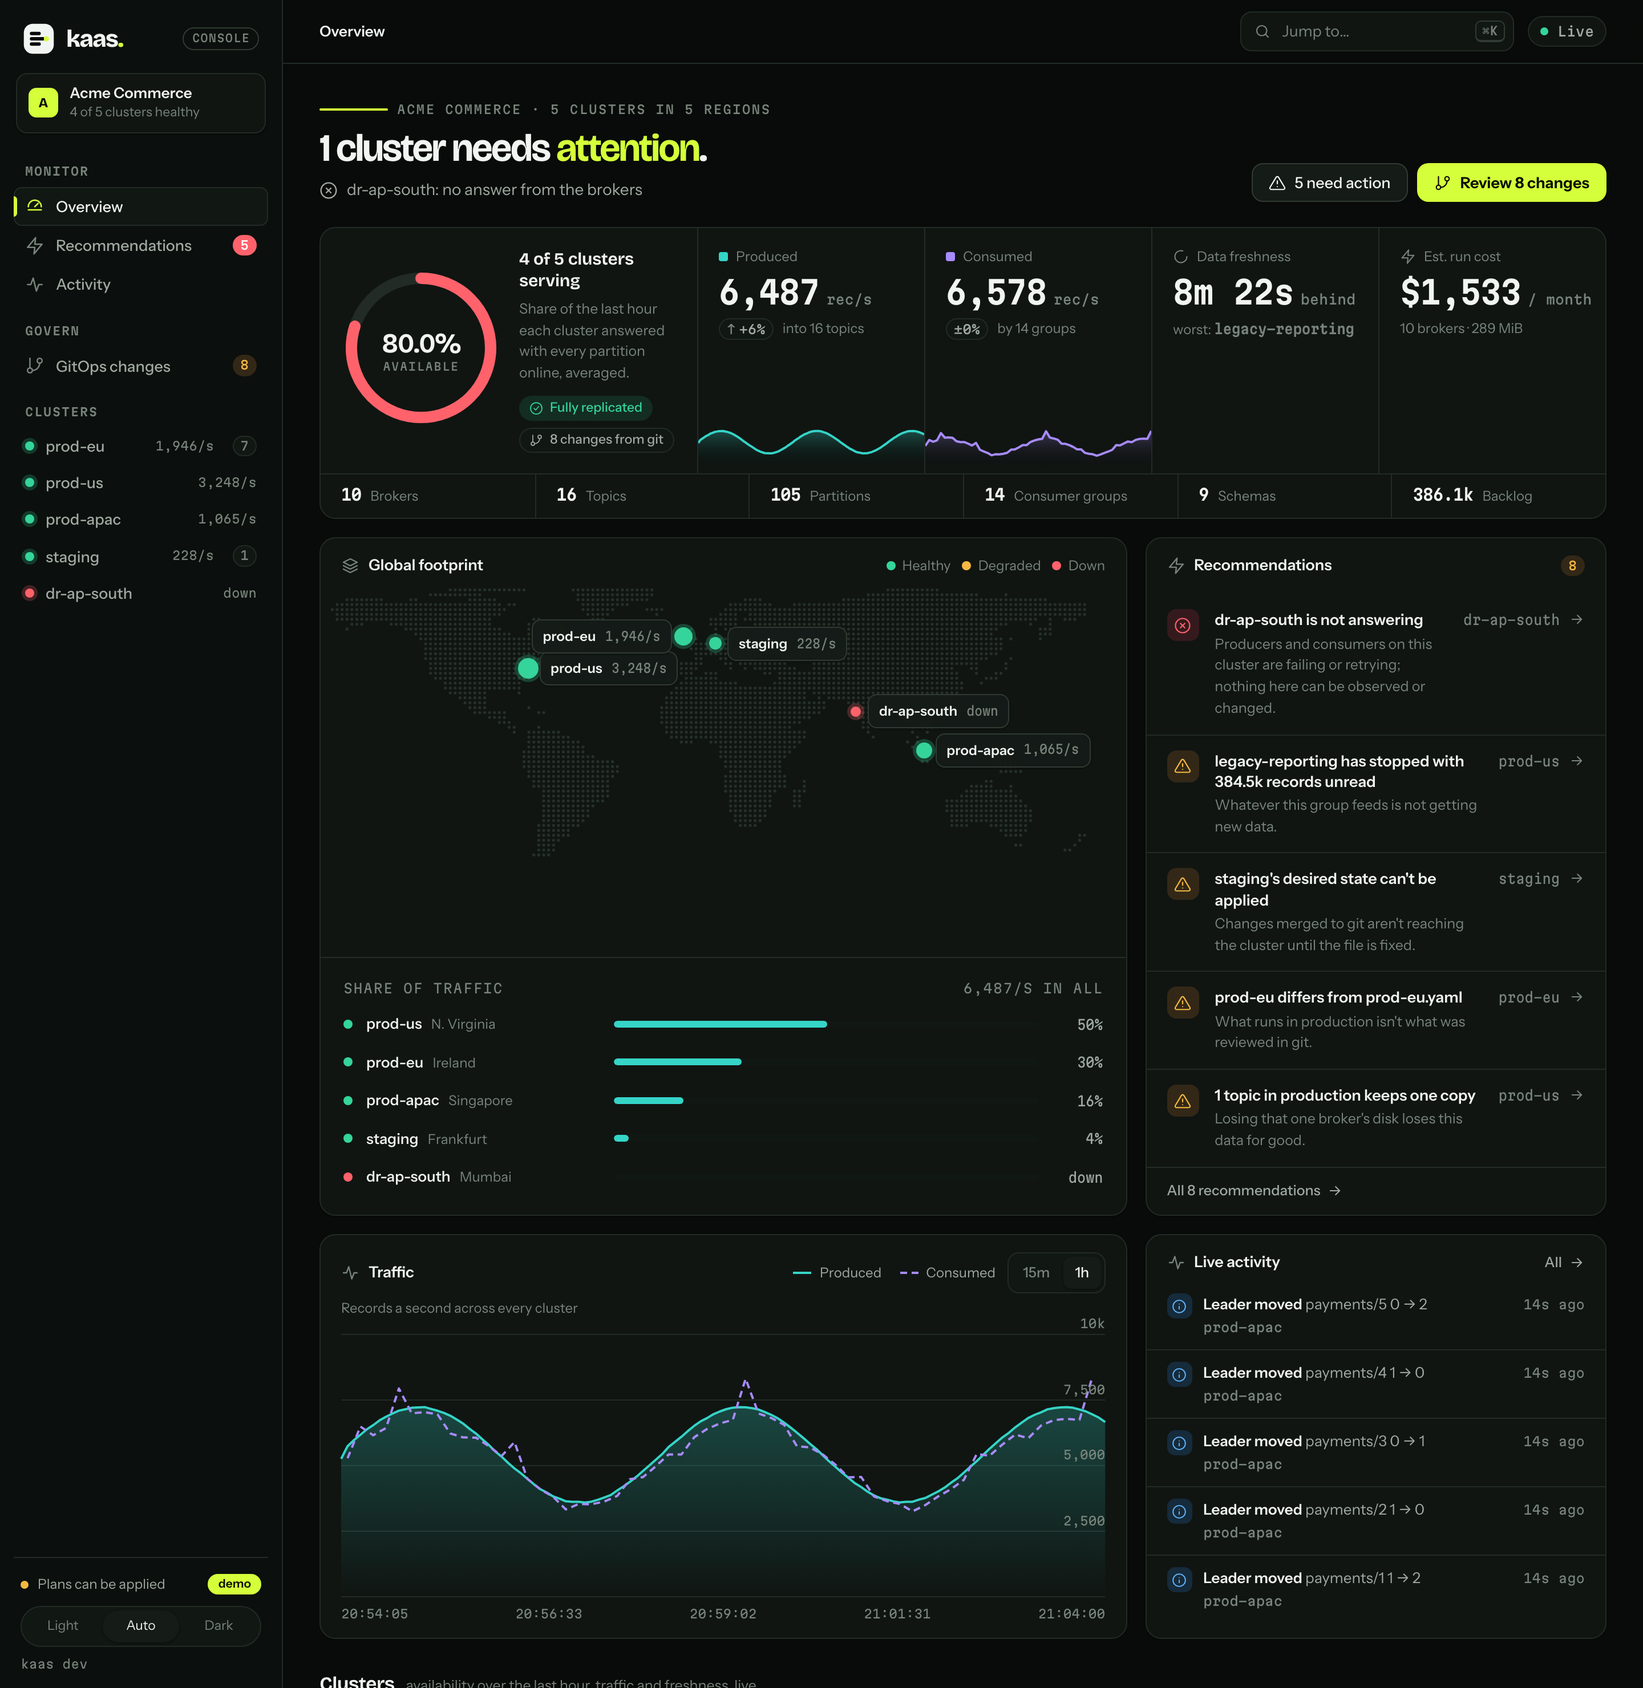
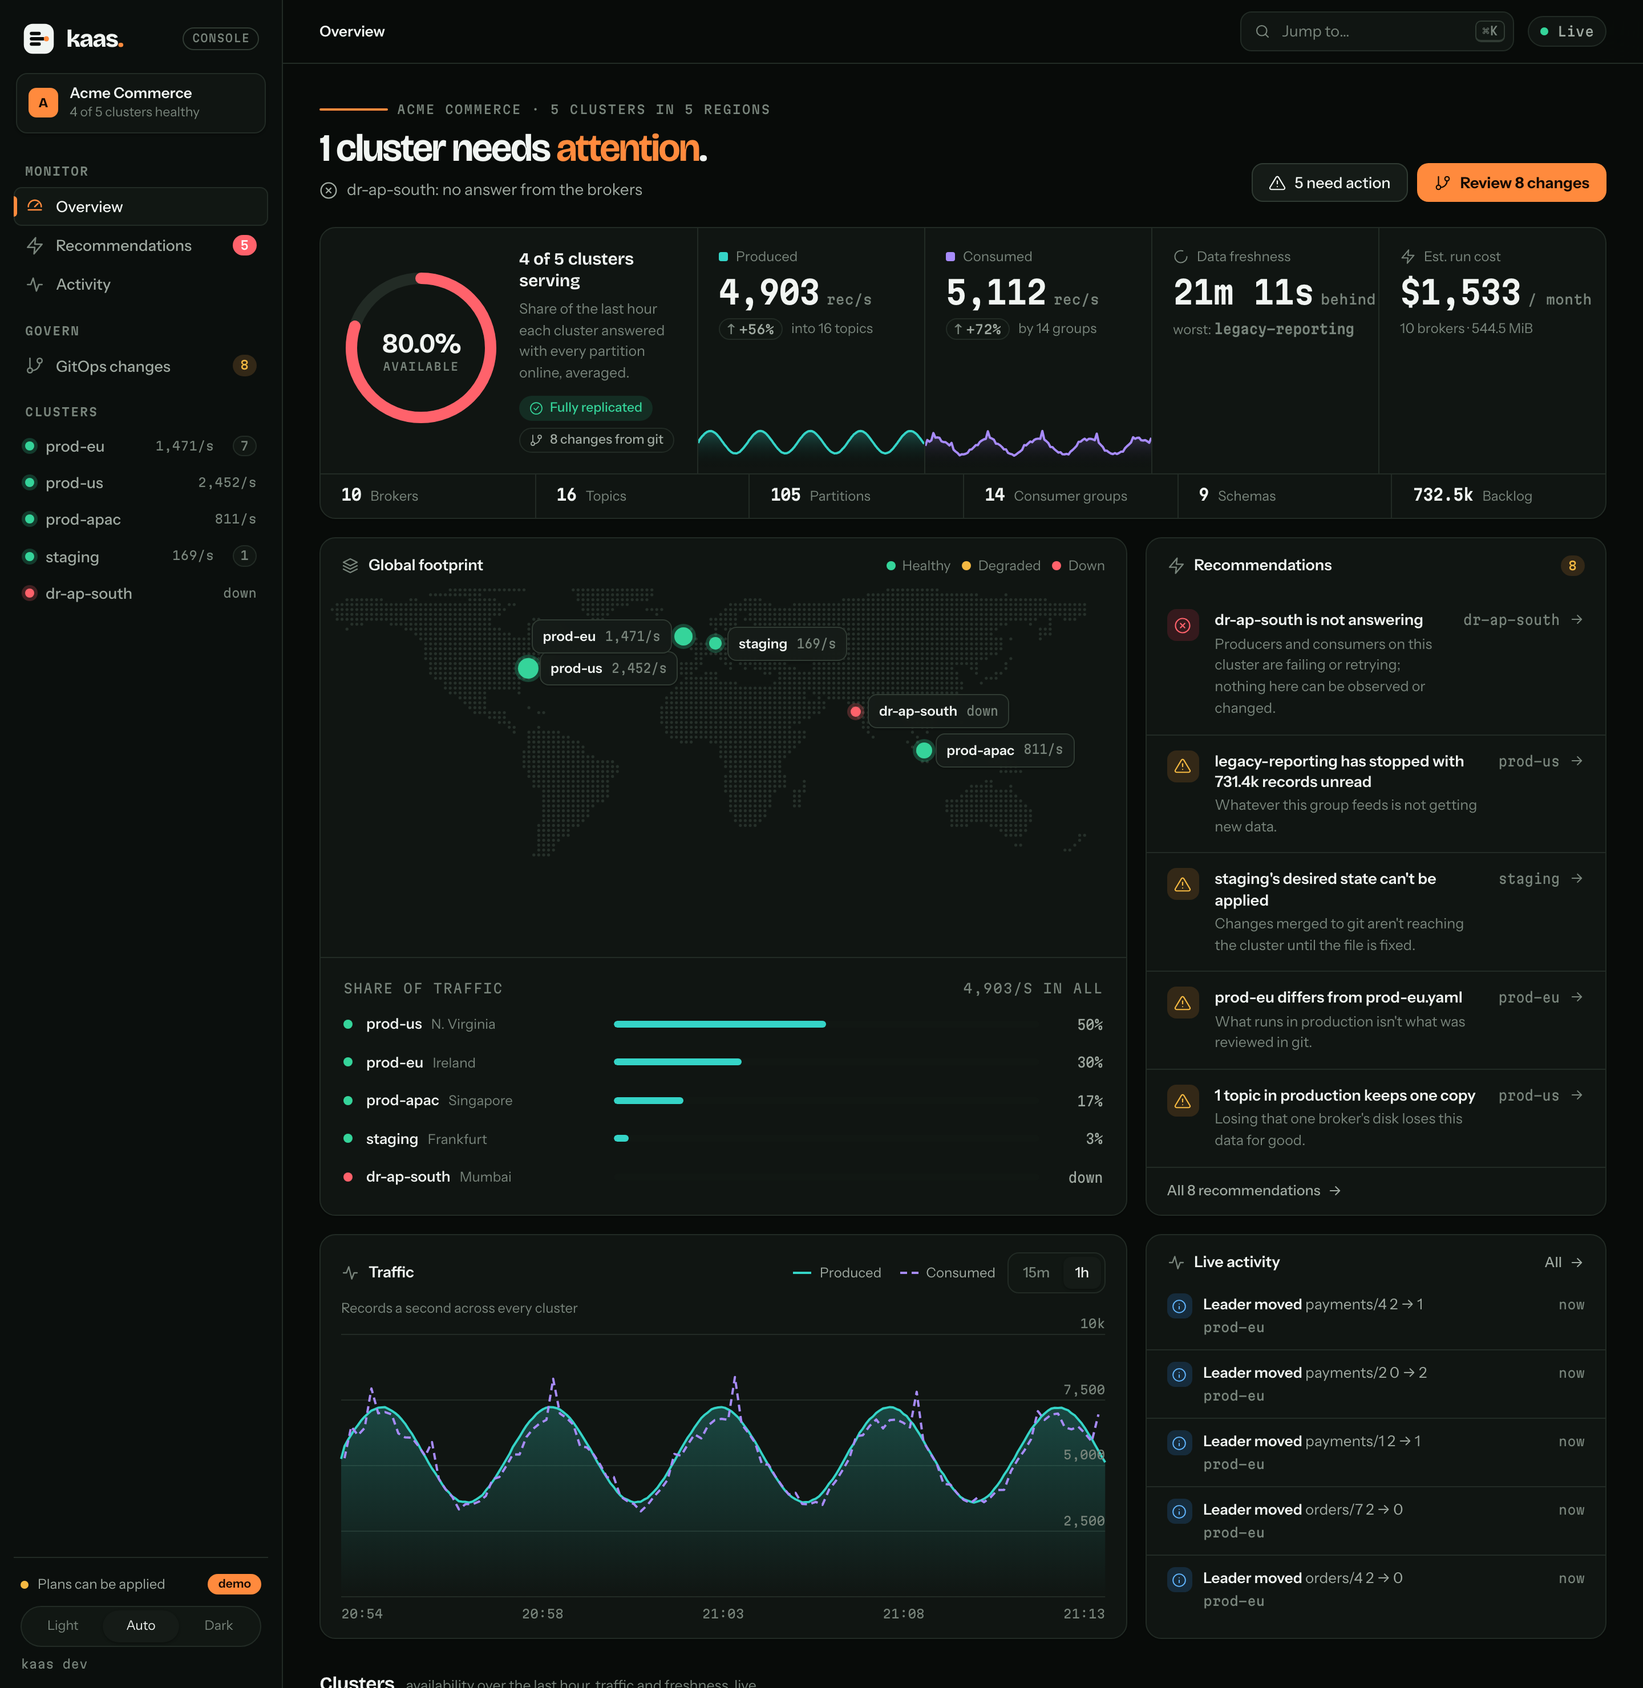
feat(console): Electric Orange accent on the Obsidian palette
The one brand accent is now Electric Orange (#FF8A3D) in place of the
neon lime: primary buttons with near-black text (8.3:1), the selected
page and tab, the brand mark and favicon, and headline highlights. Light
theme text uses #A84A0C (5.3:1 or better). The token is renamed from
--volt to --accent so its name no longer says what colour it is. Health,
recommendations and series colours are unchanged; screenshots refreshed
and ADR-0008 notes the superseded palette.

diff --git a/controlplane/console/web/app.css b/controlplane/console/web/app.css
@@ -1,7 +1,7 @@
 /* KaaS console — design system.
  *
  * Obsidian: neutral graphite surfaces carry the interface, and saturated
- * colour carries meaning only. One brand accent, electric lime (--volt),
+ * colour carries meaning only. One brand accent, Electric Orange (--accent),
  * marks primary actions, the selected page and the brand; it is never a
  * health state. Health uses the semantic pairs (--ok, --warn, --crit,
  * --info, each with a -soft background), recommendations use --ai, and
@@ -67,12 +67,12 @@
   --sheen: transparent;
   --edge: transparent;
 
-  /* Brand accent: primary actions, selected navigation, signature marks.
-     Never a health state. */
-  --volt: #d4ff3a;
-  --volt-ink: #0a0d03;
-  --volt-text: #d4ff3a;
-  --volt-soft: rgba(212, 255, 58, .08);
+  /* Brand accent, Electric Orange: primary actions, selected navigation,
+     signature marks. Never a health state. */
+  --accent: #ff8a3d;
+  --accent-ink: #140a04;
+  --accent-text: #ff8a3d;
+  --accent-soft: rgba(255, 138, 61, .1);
 
   /* Semantic pairs: foreground and subtle background. */
   --ok: #35d49a;    --ok-soft: #142d23;
@@ -116,10 +116,10 @@
   --ink-3: #5e6861;
   --ink-4: #9aa39c;
 
-  --volt: #c9f31a;
-  --volt-ink: #12150f;
-  --volt-text: #4f6a00;
-  --volt-soft: rgba(150, 190, 0, .12);
+  --accent: #ff8a3d;
+  --accent-ink: #140a04;
+  --accent-text: #a84a0c;
+  --accent-soft: rgba(255, 138, 61, .12);
 
   --ok: #11804e;    --ok-soft: #e3f4ec;
   --warn: #9a5b00;  --warn-soft: #fbf0dc;
@@ -154,8 +154,8 @@ body {
 }
 a { color: inherit; text-decoration: none; }
 button { font: inherit; color: inherit; }
-::selection { background: var(--volt); color: var(--volt-ink); }
-:focus-visible { outline: 2px solid var(--volt); outline-offset: 2px; border-radius: 6px; }
+::selection { background: var(--accent); color: var(--accent-ink); }
+:focus-visible { outline: 2px solid var(--accent); outline-offset: 2px; border-radius: 6px; }
 [data-theme="light"] :focus-visible { outline-color: var(--ink); }
 
 .ic { width: 16px; height: 16px; flex: none; }
@@ -180,7 +180,7 @@ button { font: inherit; color: inherit; }
 .brand { display: flex; align-items: center; gap: 10px; padding: 4px 8px 14px; }
 .brand-mark { width: 28px; height: 28px; flex: none; }
 .brand-word { font: 800 21px/1 var(--font-display); letter-spacing: -.045em; }
-.brand-word em { font-style: normal; color: var(--volt-text); }
+.brand-word em { font-style: normal; color: var(--accent-text); }
 .brand-tag {
   margin-left: auto; font: 500 9.5px/1 var(--font-mono); letter-spacing: .06em; text-transform: uppercase;
   color: var(--ink-3); border: 1px solid var(--line-strong); border-radius: 999px; padding: 4px 7px;
@@ -192,8 +192,8 @@ button { font: inherit; color: inherit; }
 }
 .workspace .ws-badge {
   width: 26px; height: 26px; border-radius: 7px; display: grid; place-items: center; flex: none;
-  font: 700 12px/1 var(--font-display); color: var(--volt-ink);
-  background: var(--volt);
+  font: 700 12px/1 var(--font-display); color: var(--accent-ink);
+  background: var(--accent);
 }
 .workspace .ws-name { font-weight: 600; font-size: 13px; line-height: 1.2; white-space: nowrap; overflow: hidden; text-overflow: ellipsis; }
 .workspace .ws-sub { font-size: 11.5px; color: var(--ink-3); }
@@ -210,8 +210,8 @@ button { font: inherit; color: inherit; }
 }
 .nav a:hover { background: var(--hover); color: var(--ink); }
 .nav a[aria-current="page"] { background: var(--surface-2); color: var(--ink); box-shadow: inset 0 0 0 1px var(--line); }
-.nav a[aria-current="page"] .nav-icon { color: var(--volt-text); }
-.nav a[aria-current="page"]::before { content: ""; position: absolute; left: 0; top: 8px; bottom: 8px; width: 3px; border-radius: 0 3px 3px 0; background: var(--volt); }
+.nav a[aria-current="page"] .nav-icon { color: var(--accent-text); }
+.nav a[aria-current="page"]::before { content: ""; position: absolute; left: 0; top: 8px; bottom: 8px; width: 3px; border-radius: 0 3px 3px 0; background: var(--accent); }
 .nav-icon { width: 17px; height: 17px; flex: none; color: var(--ink-3); }
 .nav-count {
   margin-left: auto; font: 500 10.5px/1 var(--font-mono); color: var(--ink-3);
@@ -290,12 +290,12 @@ kbd {
   display: inline-flex; align-items: center; gap: 8px; flex-wrap: wrap;
   font: 500 10.5px/1 var(--font-mono); text-transform: uppercase; letter-spacing: .1em; color: var(--ink-3);
 }
-.eyebrow .bar { width: 16px; height: 2px; background: var(--volt); border-radius: 2px; }
+.eyebrow .bar { width: 16px; height: 2px; background: var(--accent); border-radius: 2px; }
 h1.title {
   margin: 10px 0 8px; font: 680 clamp(26px, 2.6vw, 34px)/1.06 var(--font-display);
   letter-spacing: -.035em; font-variation-settings: "opsz" 96;
 }
-h1.title .accent { color: var(--volt-text); }
+h1.title .accent { color: var(--accent-text); }
 .lede { margin: 0; color: var(--ink-2); font-size: 14px; max-width: 80ch; display: flex; align-items: center; gap: 8px; flex-wrap: wrap; }
 .hero-row { display: flex; align-items: flex-end; gap: 24px; flex-wrap: wrap; }
 .hero-row .grow { flex: 1; min-width: 280px; }
@@ -324,7 +324,7 @@ h3.card-title .ic { color: var(--ink-3); }
 }
 .stat-value small { font: 500 11.5px/1 var(--font-mono); color: var(--ink-3); letter-spacing: 0; }
 .stat-note { margin-top: 8px; font-size: 12px; color: var(--ink-3); min-height: 18px; }
-.stat.hot .stat-value { color: var(--volt-text); }
+.stat.hot .stat-value { color: var(--accent-text); }
 
 /* ───────────────────────── cards & grids ───────────────────────── */
 
@@ -527,7 +527,7 @@ h3.card-title .ic { color: var(--ink-3); }
 .cluster-card { display: flex; flex-direction: column; gap: 12px; padding: 16px 18px 18px; overflow: hidden; }
 .cluster-card::before { content: ""; position: absolute; left: 0; top: 14px; bottom: 14px; width: 3px; border-radius: 0 3px 3px 0; background: var(--status, var(--ink-4)); }
 .cluster-card .name { font: 650 17px/1.15 var(--font-display); letter-spacing: -.02em; }
-.cluster-card a.name:hover { color: var(--volt-text); }
+.cluster-card a.name:hover { color: var(--accent-text); }
 .cluster-card .where { font-size: 12px; color: var(--ink-3); margin-top: 3px; display: flex; gap: 6px; align-items: center; }
 .cc-top { display: flex; align-items: flex-start; gap: 10px; }
 .cc-top .env { margin-left: auto; }
@@ -552,7 +552,7 @@ h3.card-title .ic { color: var(--ink-3); }
 .chip.warn { background: var(--warn-soft); border-color: transparent; color: var(--warn); }
 .chip.crit { background: var(--crit-soft); border-color: transparent; color: var(--crit); }
 .chip.info { background: var(--info-soft); border-color: transparent; color: var(--info); }
-.chip.volt { background: var(--volt); border-color: transparent; color: var(--volt-ink); font-weight: 600; }
+.chip.accent { background: var(--accent); border-color: transparent; color: var(--accent-ink); font-weight: 600; }
 .chip.ai { background: var(--ai-soft); border-color: transparent; color: var(--ai); }
 .chip.mono { font: 500 11px/1 var(--font-mono); }
 
@@ -583,8 +583,8 @@ h3.card-title .ic { color: var(--ink-3); }
 .btn:hover { background: var(--raised-hover); }
 .btn:active { transform: translateY(1px); }
 .btn svg { width: 15px; height: 15px; }
-.btn.primary { background: var(--volt); color: var(--volt-ink); border-color: transparent; font-weight: 650; }
-.btn.primary:hover { background: color-mix(in oklab, var(--volt) 88%, white); }
+.btn.primary { background: var(--accent); color: var(--accent-ink); border-color: transparent; font-weight: 650; }
+.btn.primary:hover { background: color-mix(in oklab, var(--accent) 88%, white); }
 .btn.danger:hover { background: color-mix(in oklab, var(--crit) 88%, white); }
 .btn.danger { background: var(--crit); color: var(--on-crit); border-color: transparent; }
 .btn.ghost { border-color: transparent; background: transparent; color: var(--ink-2); }
@@ -597,7 +597,7 @@ h3.card-title .ic { color: var(--ink-3); }
   background: var(--surface-2); color: var(--ink); font: inherit; min-width: 0;
 }
 .input::placeholder { color: var(--ink-3); }
-.input:focus { outline: none; border-color: var(--volt-text); box-shadow: 0 0 0 3px var(--volt-soft); }
+.input:focus { outline: none; border-color: var(--accent-text); box-shadow: 0 0 0 3px var(--accent-soft); }
 .search { position: relative; display: flex; align-items: center; }
 .search svg { position: absolute; left: 10px; width: 15px; height: 15px; color: var(--ink-3); pointer-events: none; }
 .search .input { padding-left: 32px; width: 280px; }
@@ -622,7 +622,7 @@ h3.card-title .ic { color: var(--ink-3); }
 .tabs a:hover { color: var(--ink); }
 .tabs a[aria-current="page"] { color: var(--ink); }
 .tabs a[aria-current="page"]::after {
-  content: ""; position: absolute; left: 10px; right: 10px; bottom: -1px; height: 2px; border-radius: 2px; background: var(--volt);
+  content: ""; position: absolute; left: 10px; right: 10px; bottom: -1px; height: 2px; border-radius: 2px; background: var(--accent);
 }
 .tabs .nav-count { margin-left: 0; }
 
@@ -738,8 +738,8 @@ td .sub { display: block; color: var(--ink-3); font-size: 12px; font-weight: 400
 .callout.warn svg { color: var(--warn); }
 .callout.ok { background: var(--ok-soft); border-color: color-mix(in oklab, var(--ok) 30%, transparent); }
 .callout.ok svg { color: var(--ok); }
-.callout.volt { background: var(--volt-soft); border-color: color-mix(in oklab, var(--volt-text) 30%, transparent); }
-.callout.volt svg { color: var(--volt-text); }
+.callout.accent { background: var(--accent-soft); border-color: color-mix(in oklab, var(--accent-text) 30%, transparent); }
+.callout.accent svg { color: var(--accent-text); }
 .callout ul { margin: 6px 0 0; padding-left: 18px; color: var(--ink-2); }
 .stack { display: grid; gap: 12px; }
 
@@ -748,7 +748,7 @@ td .sub { display: block; color: var(--ink-3); font-size: 12px; font-weight: 400
   background: var(--bg); border: 1px solid var(--line); font: 400 12px/1.5 var(--font-mono); font-stretch: 87.5%;
   overflow-x: auto;
 }
-.code .prompt { color: var(--volt-text); user-select: none; }
+.code .prompt { color: var(--accent-text); user-select: none; }
 .code code { flex: 1; white-space: nowrap; }
 
 pre.schema {
@@ -768,7 +768,7 @@ pre.schema .p { color: var(--ink-4); }
   padding: 10px 12px; border-radius: var(--r-sm); cursor: pointer;
 }
 .list button:hover { background: var(--hover); }
-.list button[aria-current="true"] { background: var(--volt-soft); }
+.list button[aria-current="true"] { background: var(--accent-soft); }
 .list .t { font: 500 13px/1.3 var(--font-mono); font-stretch: 87.5%; overflow-wrap: anywhere; }
 .list .s { grid-column: 1 / -1; font-size: 12px; color: var(--ink-3); display: flex; gap: 6px; align-items: center; }
 
@@ -833,7 +833,7 @@ pre.schema .p { color: var(--ink-4); }
 .palette-list button {
   all: unset; box-sizing: border-box; width: 100%; display: flex; align-items: center; gap: 12px; padding: 10px 12px; border-radius: var(--r-sm); cursor: pointer;
 }
-.palette-list button[aria-selected="true"] { background: var(--volt-soft); }
+.palette-list button[aria-selected="true"] { background: var(--accent-soft); }
 .palette-list button svg { width: 16px; height: 16px; color: var(--ink-3); flex: none; }
 .palette-list .hint { margin-left: auto; font: 400 11.5px/1 var(--font-mono); color: var(--ink-3); }
 .palette-foot { display: flex; gap: 14px; padding: 10px 16px; border-top: 1px solid var(--line); font-size: 11.5px; color: var(--ink-3); }

diff --git a/controlplane/console/web/views/gitops.js b/controlplane/console/web/views/gitops.js
@@ -84,11 +84,11 @@ function applyBox(name, v, p) {
     return h("div", { class: "callout crit" }, icon("lock"), h("div", { class: "body" }, h("b", null, "Can't be applied. "), v.blocked));
   }
   if (!state.meta.allowApply) {
-    return h("div", { class: "callout volt" }, icon("gitops"), h("div", { class: "body" },
+    return h("div", { class: "callout accent" }, icon("gitops"), h("div", { class: "body" },
       h("b", null, "This console is read-only. "), "Merge the change to the desired-state file and let CI apply exactly this plan:",
       copyCode(`kaas apply -f ${v.desired.split("/").pop()} --plan ${p.id} --yes`)));
   }
-  return h("div", { class: "callout volt" }, icon("play"), h("div", { class: "body" },
+  return h("div", { class: "callout accent" }, icon("play"), h("div", { class: "body" },
     h("div", { class: "row wrap" },
       h("div", { style: { flex: "1", "min-width": "240px" } }, h("b", null, "Apply from here. "), "Additions run first and removals last; it stops at the first failure."),
       h("button", { class: "btn primary", disabled: v.applying, onclick: () => { state.ui.modal = { kind: "apply", cluster: name, plan: p, typed: "" }; changed(); } },

diff --git a/controlplane/console/web/app.js b/controlplane/console/web/app.js
@@ -67,7 +67,7 @@ function sidebar() {
         c.drift ? h("span", { class: "nav-count" }, c.drift) : null))),
     h("div", { class: "sidebar-foot" },
       h("div", { class: "mode" + (state.meta?.allowApply ? " write" : "") }, h("span", { class: "dot" }),
-        state.meta?.allowApply ? "Plans can be applied" : "Read-only", state.meta?.demo ? h("span", { class: "chip volt", style: { "margin-left": "auto", height: "18px", "font-size": "10.5px" } }, "demo") : null),
+        state.meta?.allowApply ? "Plans can be applied" : "Read-only", state.meta?.demo ? h("span", { class: "chip accent", style: { "margin-left": "auto", height: "18px", "font-size": "10.5px" } }, "demo") : null),
       h("div", { class: "theme-switch", role: "group", "aria-label": "Theme" },
         [["light", "Light"], ["system", "Auto"], ["dark", "Dark"]].map(([id, label]) =>
           h("button", { key: id, "aria-pressed": state.ui.theme === id ? "true" : "false", onclick: () => setTheme(id) }, label))),

diff --git a/controlplane/console/web/lib/icons.js b/controlplane/console/web/lib/icons.js
@@ -47,7 +47,7 @@ export function logo() {
     h("rect", { x: "7", y: "9", width: "11", height: "3.4", rx: "1.7", fill: "var(--bg)" }),
     h("rect", { x: "7", y: "14.3", width: "15", height: "3.4", rx: "1.7", fill: "var(--bg)" }),
     h("rect", { x: "7", y: "19.6", width: "11", height: "3.4", rx: "1.7", fill: "var(--bg)" }),
-    h("circle", { cx: "23.6", cy: "16", r: "2.6", fill: "var(--volt)" }));
+    h("circle", { cx: "23.6", cy: "16", r: "2.6", fill: "var(--accent)" }));
 }
 
 // A status: icon, word, and why — never colour alone.

diff --git a/docs/design/0002-gitops-plans-and-console.md b/docs/design/0002-gitops-plans-and-console.md
@@ -128,7 +128,7 @@ Apply errors:
 ### The web app
 
 - **Pages.** Overview, Recommendations, Changes (every cluster's drift on one page), Activity, and per cluster: overview, topics with a partition map, consumers, access, schemas and GitOps.
-- **Design tokens.** Every colour is a CSS custom property in `app.css`, defined once for dark and once for light; components never use literal colours. Surfaces are neutral graphite. The lime accent marks primary actions, the selected page and the brand, never health. Health uses semantic pairs (success, warning, critical, information), each a foreground and a subtle background; recommendations use violet. Text keeps 4.5:1 contrast on every surface.
+- **Design tokens.** Every colour is a CSS custom property in `app.css`, defined once for dark and once for light; components never use literal colours. Surfaces are neutral graphite (Obsidian). The Electric Orange accent (`#FF8A3D`) marks primary actions, the selected page and the brand, never health. Health uses semantic pairs (success, warning, critical, information), each a foreground and a subtle background; recommendations use violet. Text keeps 4.5:1 contrast on every surface.
 - **Updates.** Data is polled every 2.5 seconds and events are streamed. A rendering batch per animation frame and a keyed morph keep the page still while numbers change underneath.
 - **Charts.**
   - Fixed series colours everywhere: produced is teal, consumed is violet and dashed, healthy capacity is green. The pair passes the colour-vision checks in both themes.

diff --git a/docs/adr/0008-web-console.md b/docs/adr/0008-web-console.md
@@ -22,6 +22,7 @@ They expect a page they can open, link to and leave on a wall screen. Hosted Kaf
 - **The server is a thin adapter** in `controlplane/console`. Plan, ACL and quota logic lives in `core/` (ADR-0003), and the HTTP schema-registry client lives in `controlplane/schemas`.
 - **A brand of its own.**
   - Dark "chitin" surfaces with one signature colour, volt (`#d4ff3a`), and violet iris for data.
+    *Superseded by the Obsidian palette:* neutral graphite surfaces, Electric Orange (`#FF8A3D`) as the one accent for actions and selection, semantic status pairs, and fixed series colours. See [design 0002](../design/0002-gitops-plans-and-console.md#the-web-app).
   - Bricolage Grotesque for display, Instrument Sans for the interface, Martian Mono for numbers. All three are OFL and shipped in the binary.
   - Status colours (ok, warning, critical) are reserved for state and always come with an icon and a word.
   - A light "paper" theme, and the system setting by default.
